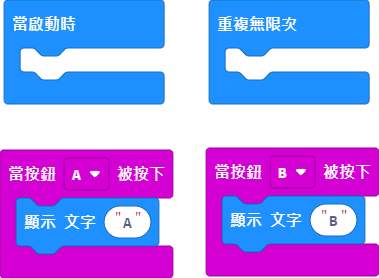
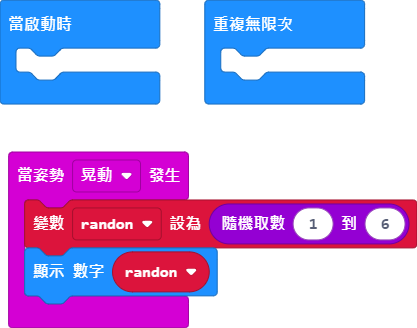
page 10 晃動隨機抽號

diff --git a/main.ts b/main.ts
@@ -1,8 +1,7 @@
-input.onButtonPressed(Button.A, function () {
-    basic.showString("A")
-})
-input.onButtonPressed(Button.B, function () {
-    basic.showString("B")
+let randon = 0
+input.onGesture(Gesture.Shake, function () {
+    randon = randint(1, 6)
+    basic.showNumber(randon)
 })
 basic.forever(function () {
 	
